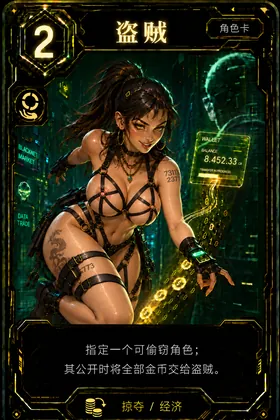
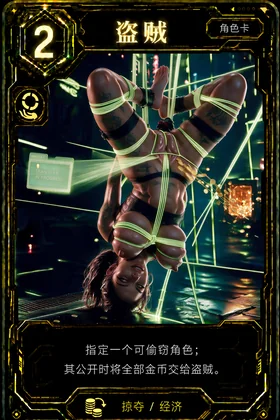
feat(theme): 更新生意人与盗贼角色卡

diff --git a/public/themes/neon/manifest.js b/public/themes/neon/manifest.js
@@ -26,7 +26,7 @@
     // 魔术师恢复为原卡图；
     // 单独版本化，让已安装 PWA 绕过旧图片的 HTTP / Service Worker 缓存。
     const versioned = (folder === 'districts' && key === 'graveyard') ||
-      (folder === 'roles' && (key === 'blackmailer' || key === 'magician' || key === 'wizard' || key === 'bishop' || key === 'spy' || key === 'businessman' || key === 'diplomat' || key === 'king' || key === 'alchemist' || key === 'architect'));
+      (folder === 'roles' && (key === 'blackmailer' || key === 'magician' || key === 'wizard' || key === 'bishop' || key === 'spy' || key === 'businessman' || key === 'diplomat' || key === 'king' || key === 'alchemist' || key === 'architect' || key === 'thief'));
     const version = folder === 'roles' && key === 'magician'
       ? '?v=3'
       : (folder === 'roles' && key === 'bishop'
@@ -37,7 +37,9 @@
             ? '?v=4'
             : (folder === 'roles' && key === 'wizard'
               ? '?v=3'
-              : (versioned ? '?v=2' : '')))));
+              : (folder === 'roles' && key === 'businessman'
+                ? '?v=3'
+                : (versioned ? '?v=2' : ''))))));
     return {
       thumb: base + folder + '/thumb/' + key + '.webp' + version,
       full: base + folder + '/full/' + key + '.webp' + version
